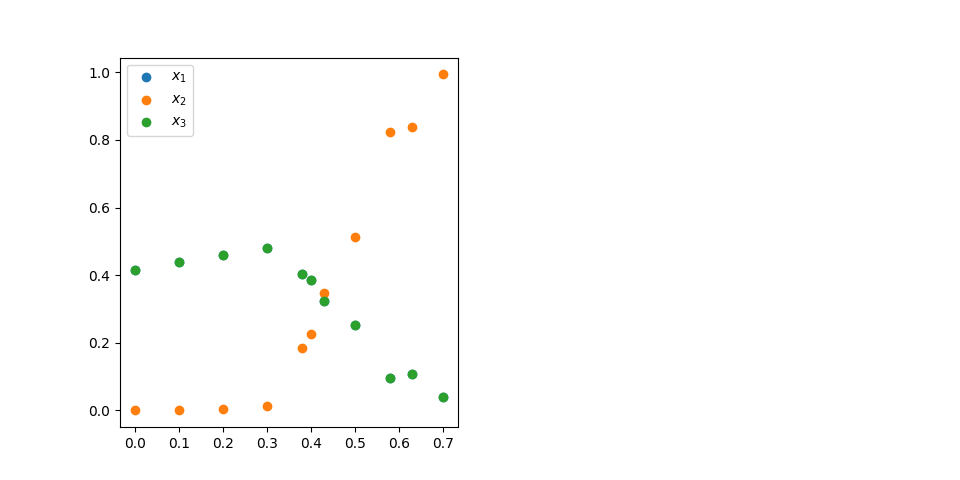
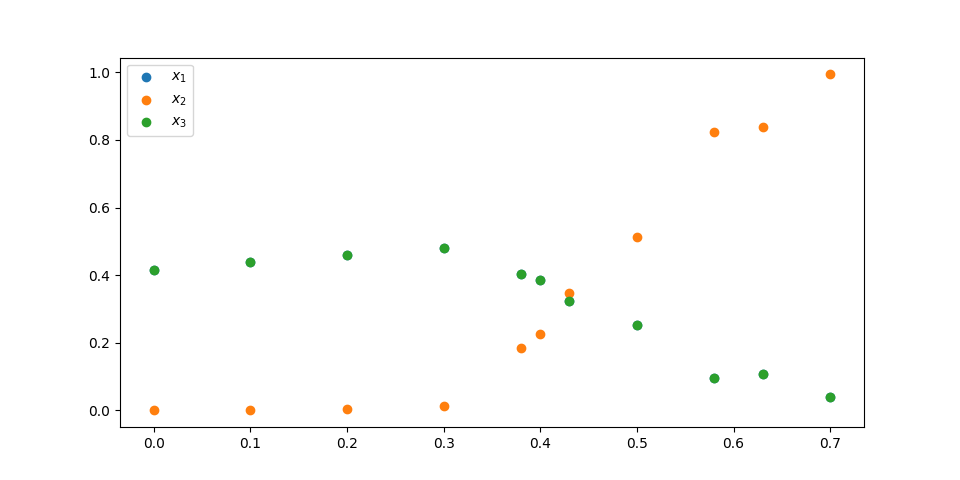
Fixed mistake in plot of threespecies

diff --git a/three_species.py b/three_species.py
@@ -40,7 +40,7 @@ for a in all_a:
 avgs_all = np.array(avgs_all)
 
 fig = plt.figure(figsize=(6.4*1.5, 4.8))
-ax = fig.add_subplot(121)
+ax = fig.add_subplot()
 
 for i in range(N):
     ax.scatter(all_a, avgs_all[:,i], label=r"$x_{}$".format(i+1))
